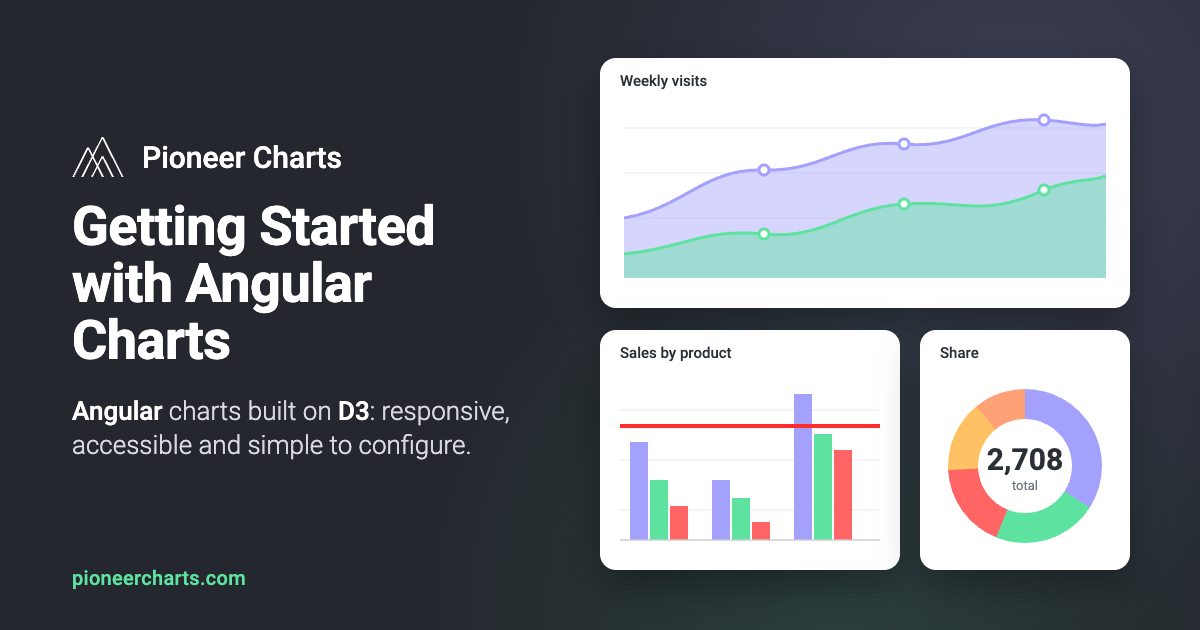
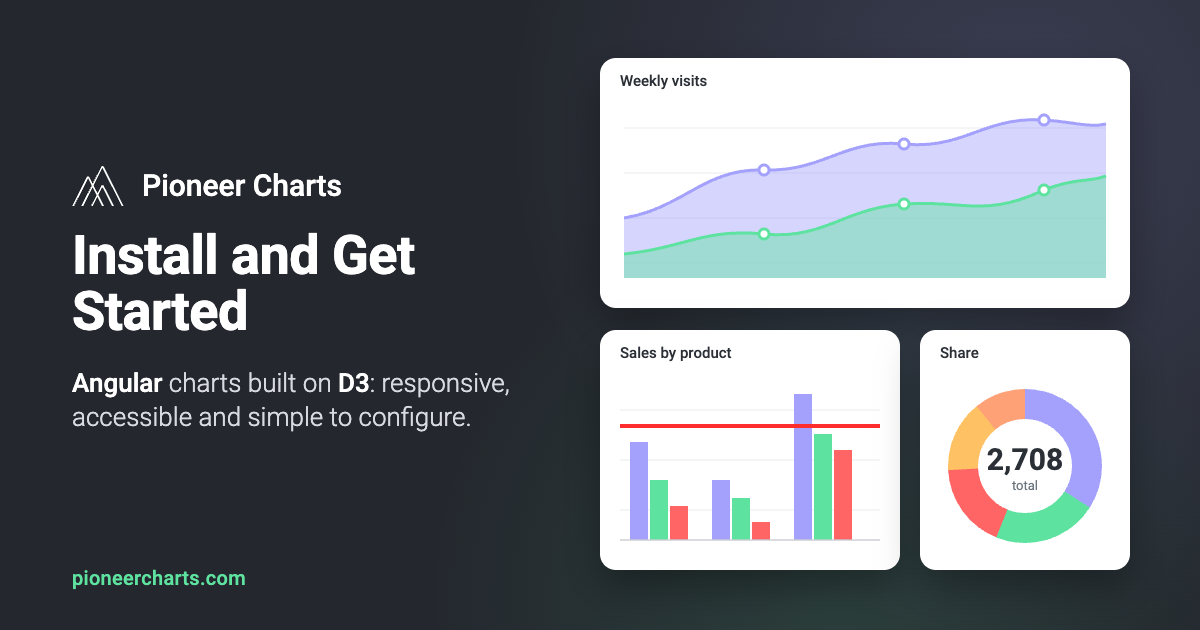
Put search words in the docs pages' copy and titles
- Donut: name it an Angular donut (doughnut, ring) chart and progress
  ring in its intro and description
- Pie: call it an Angular pie chart, a circle split into slices
- Sparkline: say "Angular sparkline" in its intro
- Lead the home page title with "Angular Chart Library Built on D3"
- Retitle the introduction "Install and Get Started" so it stops
  competing with the home page for "angular charts"
- Skip redirect routes in build/og-images.js

Changed region(s): [[0.0617, 0.2111, 0.4317, 0.7238]]

diff --git a/projects/pioneer-charts-docs/src/app/app.routes.ts b/projects/pioneer-charts-docs/src/app/app.routes.ts
@@ -16,7 +16,7 @@ export const routes: Routes = [
     {
         path: 'docs/guides/introduction', title: 'Getting Started',
         loadComponent: () => import('./docs/introduction/introduction.component').then(m => m.IntroductionComponent),
-        data: { searchTitle: 'Getting Started with Angular Charts', description: 'Install Pioneer Charts, import a chart component and its theme, and render your first Angular chart in a few steps.' },
+        data: { searchTitle: 'Install and Get Started', description: 'Install Pioneer Charts, import a chart component and its theme, and render your first Angular chart in a few steps.' },
     },
     {
         path: 'docs/guides/theme', title: 'Theme',
@@ -86,7 +86,7 @@ export const routes: Routes = [
     {
         path: 'docs/components/charts/donut-chart', title: 'Donut Chart',
         loadComponent: () => import('./docs/donut-chart/donut-chart.component').then(m => m.DonutChartComponent),
-        data: { searchTitle: 'Angular Donut Chart', description: 'An Angular donut chart built on D3: slices as a ring with a total or any label in the center, progress rings, adjustable thickness and click events.' },
+        data: { searchTitle: 'Angular Donut Chart', description: 'An Angular donut (doughnut) chart built on D3: slices as a ring with a total or any label in the center, progress rings, adjustable thickness and click events.' },
     },
     {
         path: 'docs/components/charts/dot-plot-chart', title: 'Dot Plot Chart',

diff --git a/projects/pioneer-charts-docs/src/app/docs/donut-chart/donut-chart.component.html b/projects/pioneer-charts-docs/src/app/docs/donut-chart/donut-chart.component.html
@@ -1,8 +1,9 @@
 <app-layout-page-docs pageTitle="Donut Chart" [jumpNav]="jumpNav()">
-  <p class="lead" id="donut-chart">Donut chart component: the slices of a pie drawn as a ring around an empty
-    center, which can hold a short <code>label</code> and <code>subLabel</code> &mdash; typically the total the
-    slices add up to. Takes the same data as the <a routerLink="/docs/components/charts/pie-chart">Pie
-    Chart</a>, with animated transitions.</p>
+  <p class="lead" id="donut-chart">An Angular donut chart (also called a doughnut or ring chart) built on D3:
+    the slices of a pie drawn as a ring around an empty center, which can hold a short <code>label</code> and
+    <code>subLabel</code> &mdash; typically the total the slices add up to. With two slices it's a progress
+    ring. Takes the same data as the <a routerLink="/docs/components/charts/pie-chart">Pie Chart</a>, with
+    animated transitions.</p>
   <section class="pc-doc-section">
     <h2 class="pc-h3" id="try-it">Try it</h2>
     <p class="mb-3">The controls edit the chart's config live; each field is described in the Configuration table.</p>

diff --git a/projects/pioneer-charts-docs/src/index.html b/projects/pioneer-charts-docs/src/index.html
@@ -3,7 +3,7 @@
 
 <head>
   <meta charset="utf-8">
-  <title>Pioneer Charts - Angular charts built on D3</title>
+  <title>Angular Chart Library Built on D3 · Pioneer Charts</title>
   <base href="/">
   <meta name="viewport" content="width=device-width, initial-scale=1">
   <!-- The home page's; the app replaces them per page on navigation (src/app/seo.ts). They're here
@@ -13,7 +13,7 @@
   <link rel="canonical" href="https://pioneercharts.com/">
   <meta property="og:type" content="website">
   <meta property="og:site_name" content="Pioneer Charts">
-  <meta property="og:title" content="Pioneer Charts - Angular charts built on D3">
+  <meta property="og:title" content="Angular Chart Library Built on D3 · Pioneer Charts">
   <meta property="og:description"
     content="Pioneer Charts is an Angular library of bar, line, area, plot, pie, donut, dot plot, proximity and state timeline charts built on D3 - responsive, themeable and simple to configure.">
   <meta property="og:url" content="https://pioneercharts.com/">

diff --git a/build/og-images.js b/build/og-images.js
@@ -10,7 +10,7 @@
  *   node build/og-images.js
  */
 import { execFileSync } from 'child_process';
-import { mkdirSync, readFileSync } from 'fs';
+import { existsSync, mkdirSync, readFileSync } from 'fs';
 import { resolve } from 'path';
 import { pathToFileURL } from 'url';
 
@@ -30,7 +30,15 @@ const decode = (text) => text.replace(/&amp;/g, '&').replace(/&quot;/g, '"').rep
 
 mkdirSync(outDir, { recursive: true });
 for (const route of routes) {
+  // A redirect (`redirectTo` route) isn't a page: build/docs-pages.js leaves one that's a folder of
+  // pages as <folder>/index.html, and any other is a meta-refresh page. Neither needs an image.
+  if (!existsSync(`${browser}${route}.html`)) {
+    continue;
+  }
   const html = readFileSync(`${browser}${route}.html`, 'utf-8');
+  if (html.includes('http-equiv="refresh"')) {
+    continue;
+  }
   const ogTitle = html.match(/<meta property="og:title" content="([^"]*)"/)?.[1];
   if (!ogTitle) {
     throw new Error(`build/og-images.js: ${route} has no og:title`);

diff --git a/projects/pioneer-charts-docs/src/app/docs/pie-chart/pie-chart.component.html b/projects/pioneer-charts-docs/src/app/docs/pie-chart/pie-chart.component.html
@@ -1,7 +1,7 @@
 <app-layout-page-docs pageTitle="Pie Chart" [jumpNav]="jumpNav()">
-  <p class="lead" id="pie-chart">Pie chart component with animated transitions. For the slices drawn as a ring,
-    with room for a total in the center, see the <a routerLink="/docs/components/charts/donut-chart">Donut
-    Chart</a>.</p>
+  <p class="lead" id="pie-chart">An Angular pie chart built on D3, with animated transitions: a circle split
+    into slices, each sized by its share of the total. For the slices drawn as a ring, with room for a total in
+    the center, see the <a routerLink="/docs/components/charts/donut-chart">Donut Chart</a>.</p>
   <section class="pc-doc-section">
     <div class="grid grid-cols-1 gap-4 mb-6">
       <pc-chart-card heading="Pie" [level]="2">

diff --git a/projects/pioneer-charts-docs/src/app/docs/sparkline/sparkline.component.html b/projects/pioneer-charts-docs/src/app/docs/sparkline/sparkline.component.html
@@ -2,7 +2,7 @@
   <p class="lead" id="sparklines">A sparkline is a small chart with no axes, labels, or grid. It shows just the
     shape of the data and is sized to fit next to a number in a table row, a dashboard tile, or a sentence. With a
     few config settings, any Pioneer Charts <a routerLink="/docs/components/charts/line-chart">line</a> or
-    <a routerLink="/docs/components/charts/area-chart">area chart</a> in Angular can be used as a sparkline.</p>
+    <a routerLink="/docs/components/charts/area-chart">area chart</a> becomes an Angular sparkline.</p>
 
   <section class="pc-doc-section">
     <h2 class="pc-h3" id="in-a-table">In A Table</h2>

diff --git a/projects/pioneer-charts-docs/src/app/seo.ts b/projects/pioneer-charts-docs/src/app/seo.ts
@@ -9,7 +9,7 @@ const SITE_NAME = 'Pioneer Charts';
 const REPOSITORY_URL = 'https://github.com/PioneerCode/pioneer-charts';
 /** The docs' own start page: the "Documentation" step in a docs page's breadcrumbs. */
 const DOCS_PATH = '/docs/guides/introduction';
-const DEFAULT_TITLE = 'Pioneer Charts - Angular charts built on D3';
+const DEFAULT_TITLE = 'Angular Chart Library Built on D3 · Pioneer Charts';
 /** The home page's description (and index.html's), for any route without its own. */
 /** The site's link-preview image (index.html's), for the home page and any URL that isn't a page. */
 const DEFAULT_IMAGE = `${SITE_URL}/og-image.png`;

diff --git a/projects/pioneer-charts-docs/src/app/seo.spec.ts b/projects/pioneer-charts-docs/src/app/seo.spec.ts
@@ -46,7 +46,7 @@ describe('PageSeoStrategy', () => {
   it('gives the home page the site\'s own title', async () => {
     await harness.navigateByUrl('/');
 
-    expect(TestBed.inject(Title).getTitle()).toBe('Pioneer Charts - Angular charts built on D3');
+    expect(TestBed.inject(Title).getTitle()).toBe('Angular Chart Library Built on D3 · Pioneer Charts');
   });
 
   it('describes a page from its route data', async () => {
